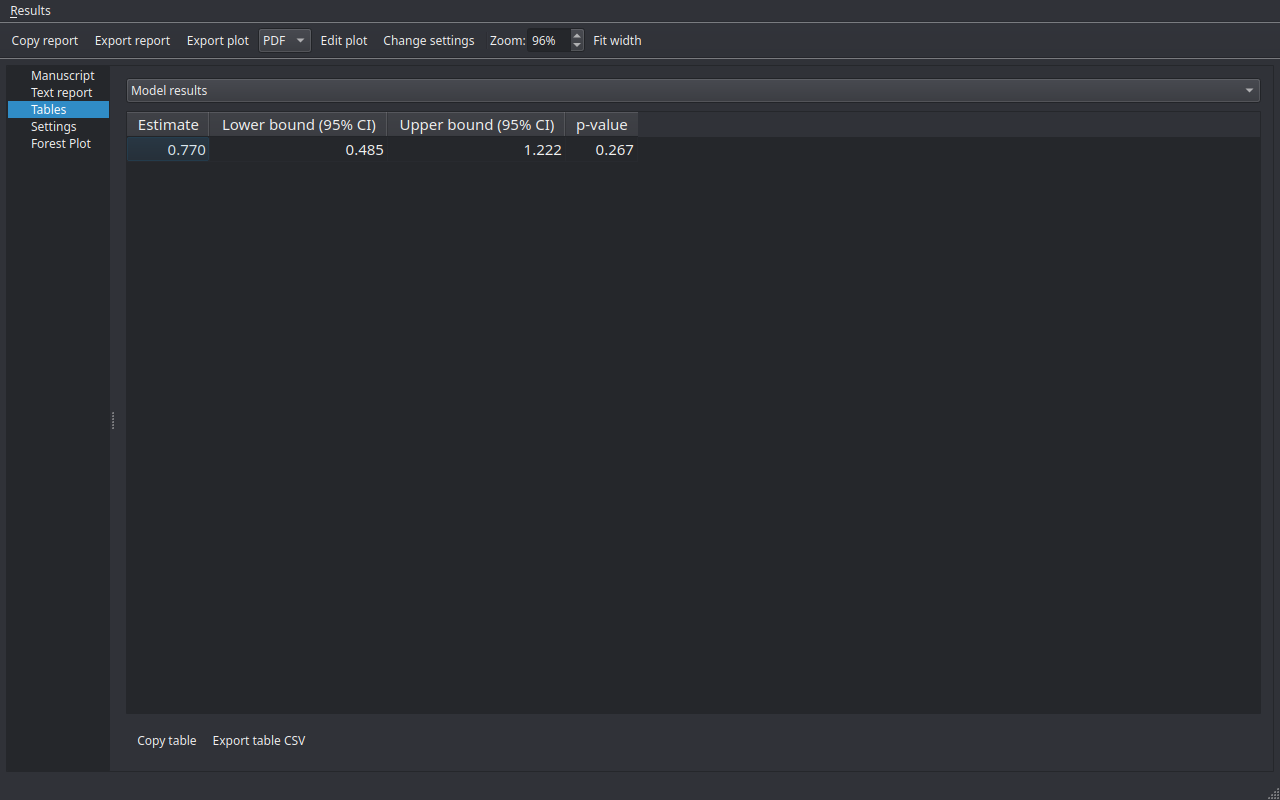
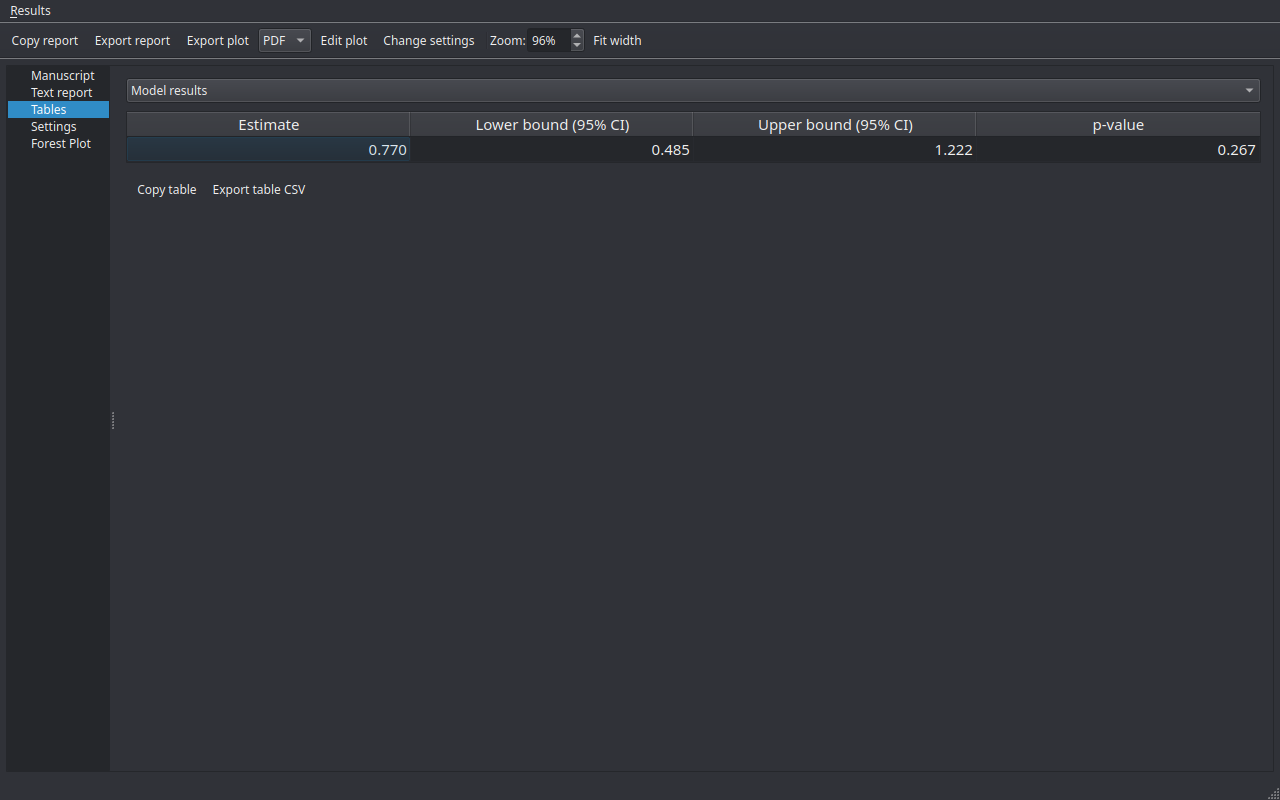
Refresh metric and table screenshots and record final verification

diff --git a/docs/ux-hill-climb/SHEETS-FINAL-VERIFICATION.md b/docs/ux-hill-climb/SHEETS-FINAL-VERIFICATION.md
@@ -1,0 +1,50 @@
+# Sheets final UI and packaging verification
+
+Environment: `source build/sheets-baseline/ENV.sh`; all Python commands use
+`uv run --no-sync`. No oracle regeneration or numerical changes.
+
+Commands, run sequentially:
+
+- `uv run --no-sync python scripts/verify_rcms.py ratios-hr`
+- `uv run --no-sync python scripts/verify_rcms.py hillclimb`
+- `uv run --no-sync python scripts/verify_rcms.py results-window`
+- `"$RCMS_R_HOME/bin/Rscript" .agents/skills/verify-rcms/scripts/analysis_authorities.R build/sheets-baseline/authorities-final.json`
+- `uv run --no-sync python scripts/verify_rcms.py xlsx-import`
+- `uv run --no-sync python -m pytest tests/e2e -n 2 -q -k "results or wizard or ratios"`
+
+The first four desktop scenarios passed, with repeatable input/action/result
+artifacts in `artifacts/verification/rcms/`:
+
+- `20261101T052818Z-9d0a51b1-ratios-hr`
+- `20261101T053127Z-148e9604-hillclimb`
+- `20261101T053159Z-64ff69e1-results-window`
+- `20261101T053349Z-628e0a57-xlsx-import`
+
+The authority report passed 100 comparisons. Scenario transcripts and the JSON report
+are retained in `build/sheets-baseline/*-final.log` and `authorities-final.json`.
+The results-window drive asserts no horizontal scrollbar on amino Model results
+and a gap of at most 32 logical pixels between the last row and Copy table.
+The refreshed metric screenshot comes from xlsx-import; the dark table screenshot
+comes from results-window's `15-0-slice8b-results-tables-dark.png`.
+These are offscreen Qt/R checks, not native desktop or release-package qualification.
+
+Packaging audit: Linux explicitly included only openpyxl; Windows and macOS
+had no explicit export-package imports. All three production specs now include
+openpyxl, docx, lxml.etree and `docx/templates/*` data. The macOS feasibility
+spec only builds its Qt/R feasibility entry, not the application. Windows/macOS
+build scripts and the Linux package wrapper install the locked project environment;
+python-docx brings lxml transitively in uv.lock. No build/smoke exclusion removes
+these packages. Full platform bundles were not built in this Linux UI verification.
+
+The first pytest attempt was terminated with SIGTERM (143), leaving two owned
+drivers; both were terminated before retrying. Its partial transcript is retained
+as `build/sheets-baseline/pytest-interrupted.log`. A detached launch did not survive
+tool cleanup; the final run uses a dedicated live process.
+
+Final dedicated pytest run completed uninterrupted: **4 passed in 234.40s**.
+Per-case manifests and inputs remain in `artifacts/verification/rcms/`.
+Afterward, the actual PyInstaller `collect_data_files("docx", includes=["templates/*"])`
+returned the default Word template and ancillary template XML files. All packaging
+specs compiled; installed docx/openpyxl created real Word/Excel files and lxml.etree
+imported. Results and outputs are retained as `build/sheets-baseline/packaging-final.log`,
+`packaging-document.docx`, and `packaging-workbook.xlsx`.
